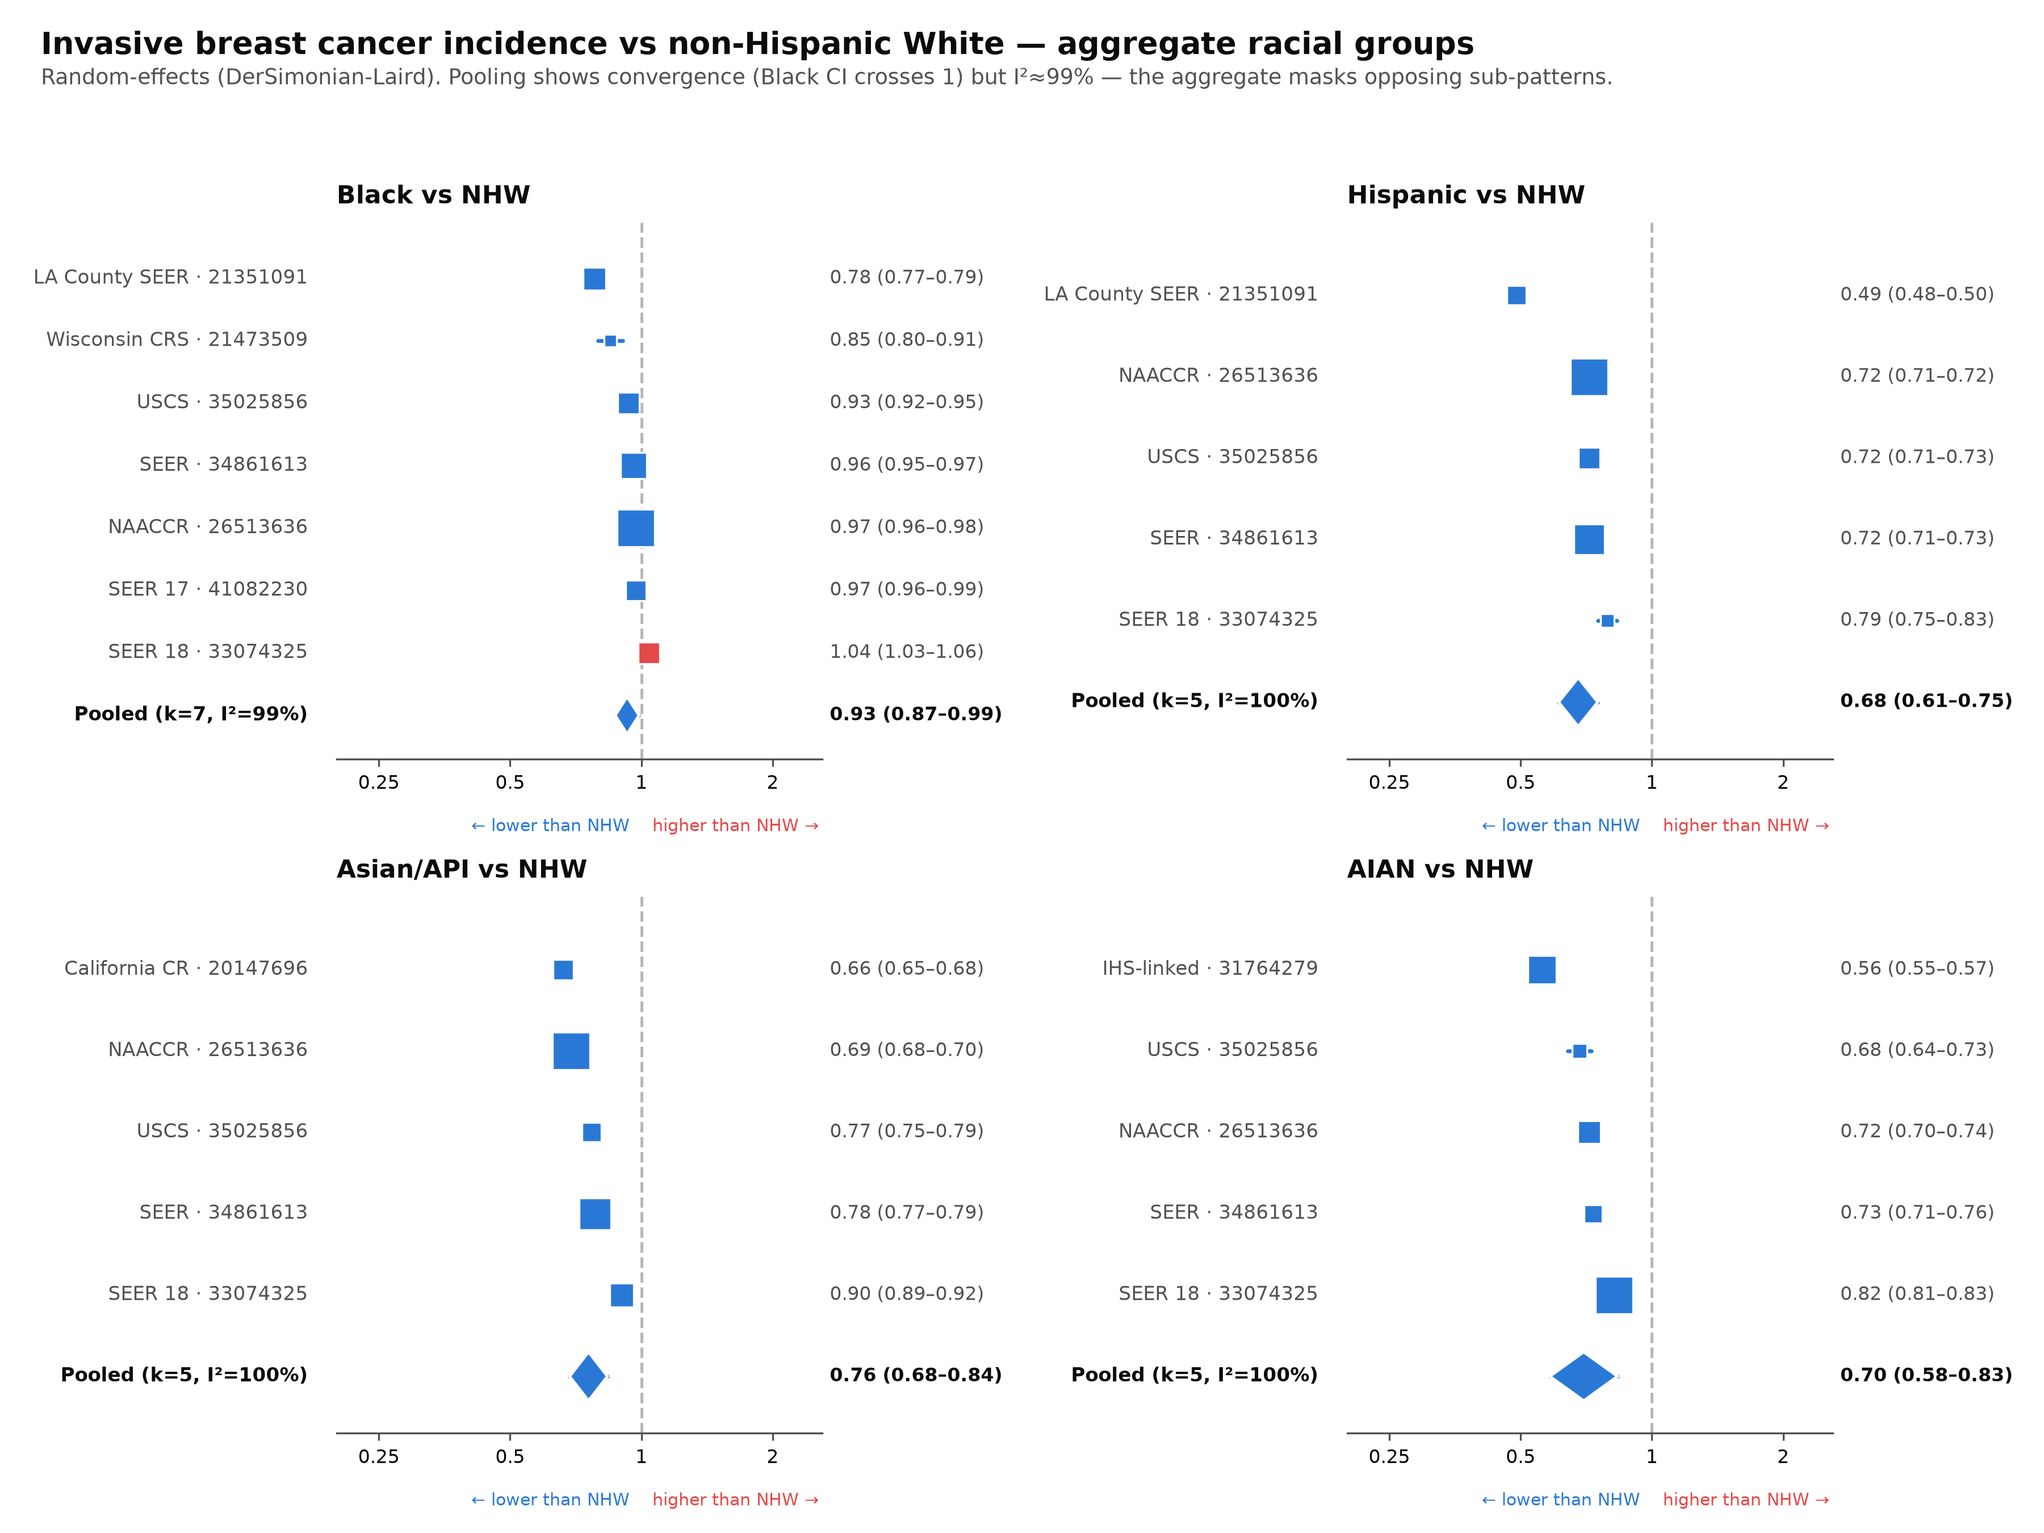
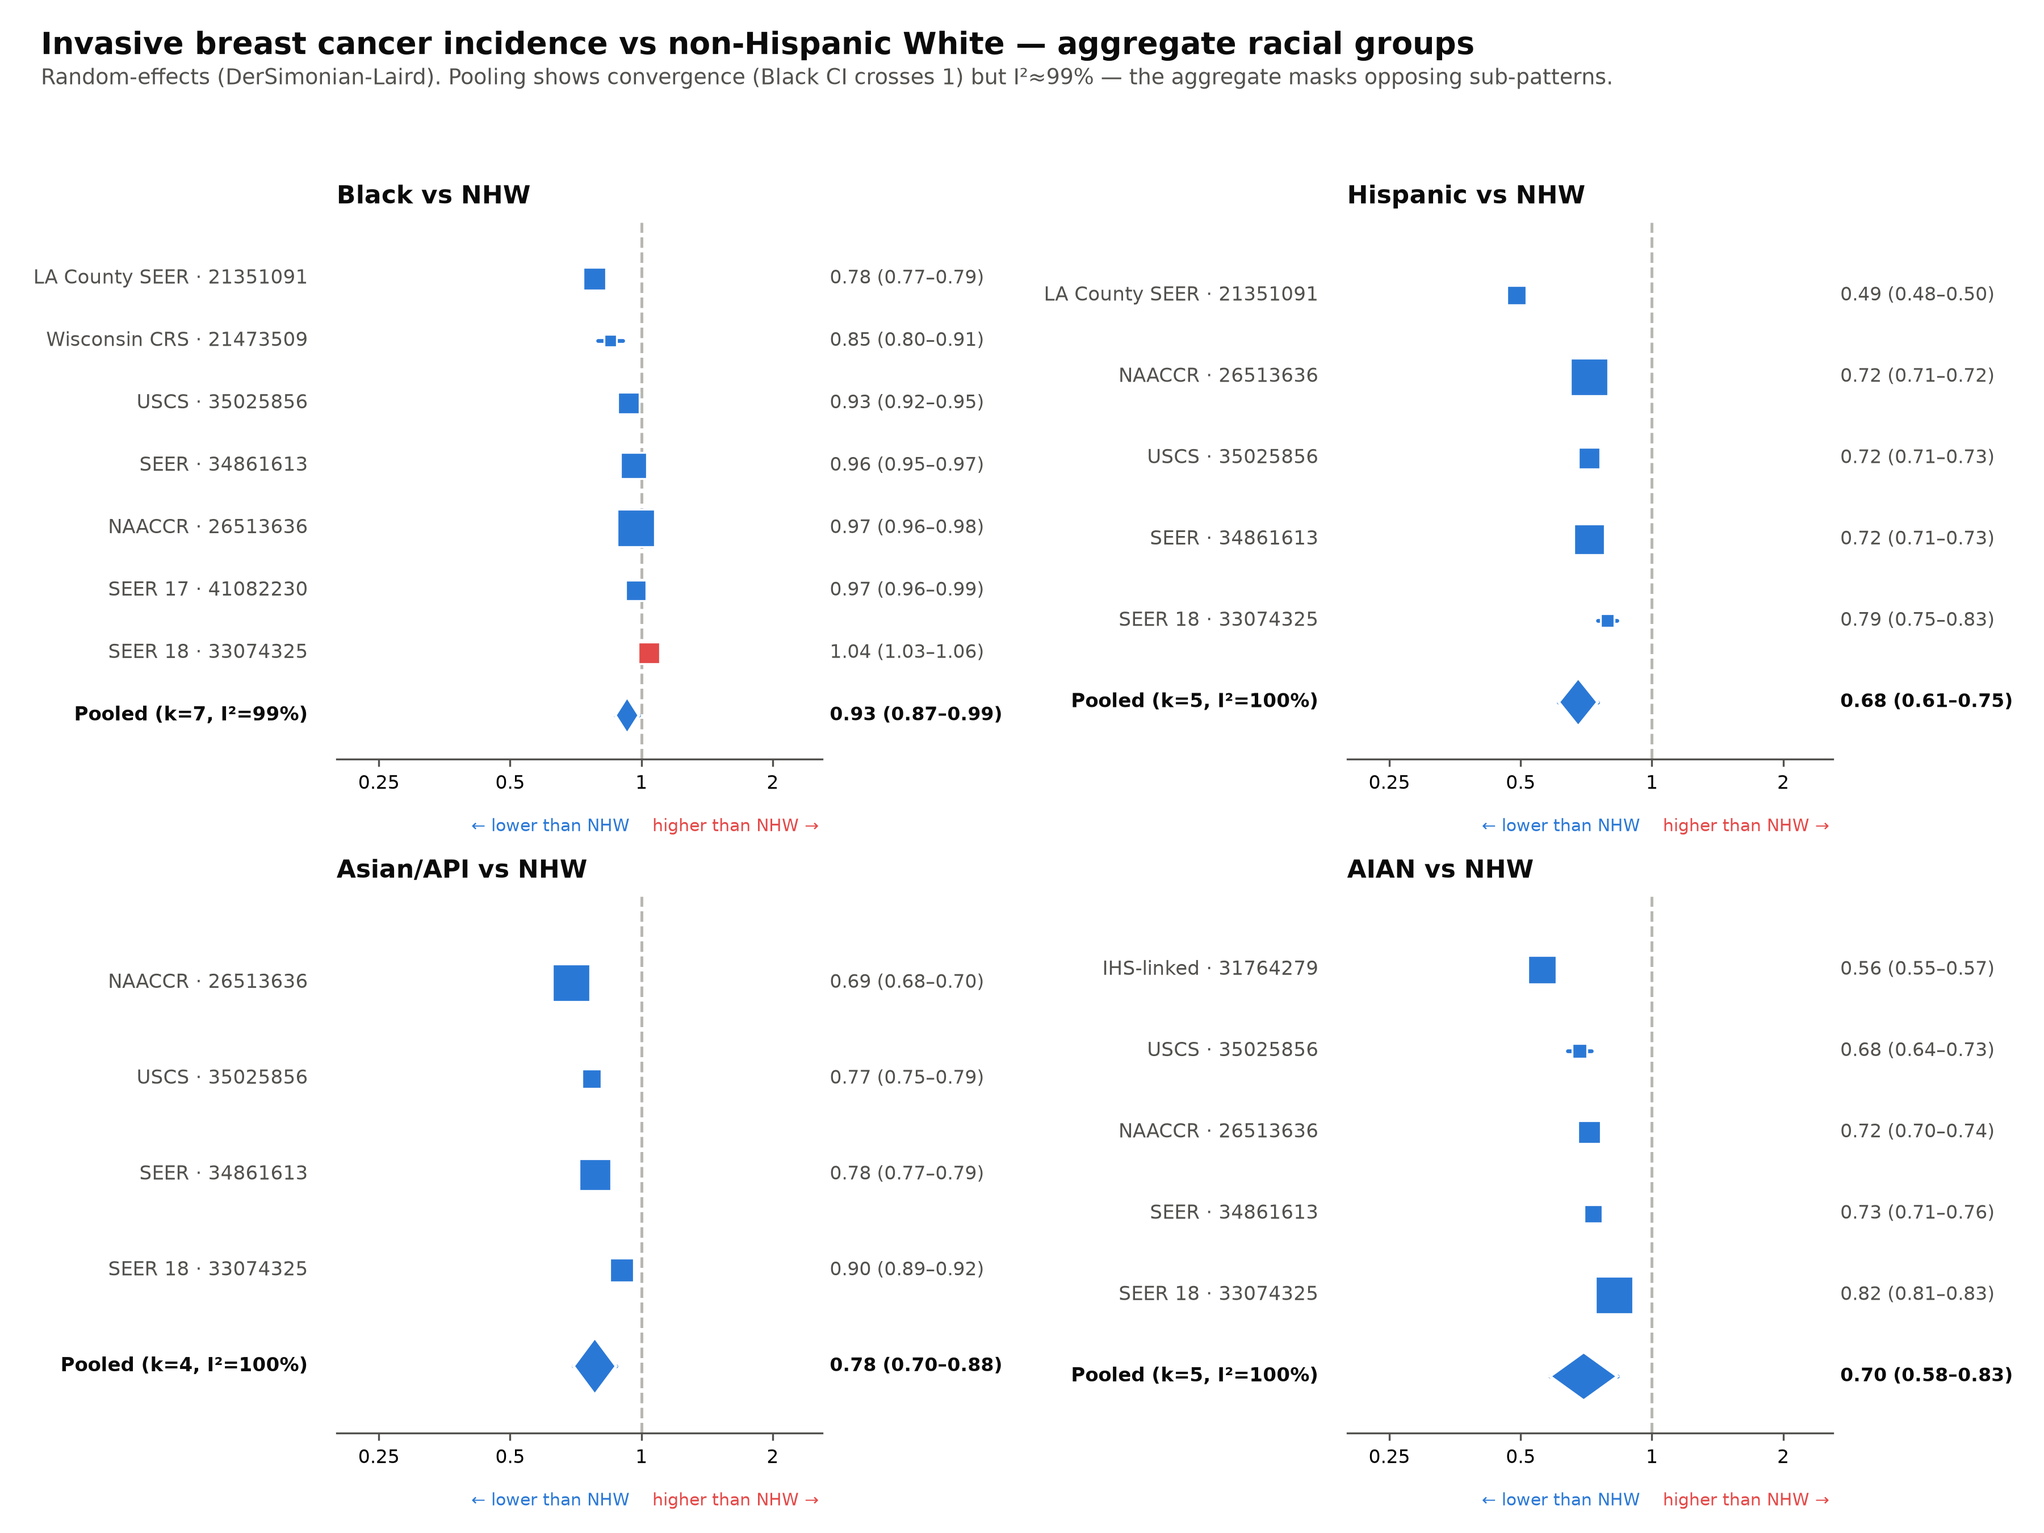
Remove derived combined-Asian (Gomez); use direct nativity values instead
For consistency with the 12115511 decision (no analyst-derived value in the
pool), removed Gomez's PY-weighted combined-Asian (96.4) from the aggregate
Asian comparison. Asian pool 0.756 (k=5) -> 0.782 (k=4, all directly reported).
Gomez instead contributes its DIRECT nativity finding as a sub-analysis:
US-born Asian IRR 0.93 (approx NHW), foreign-born 0.54 (~half) - a generational
gradient. Resolves CROSS_CHECK flag #39 (the last analyst-derived pool value).
Updated STUDIES, run_all (nativity block), sensitivity/GRADE (live), MANUSCRIPT
(API 0.78, sensitivity 0.75-0.82, nativity sentence), figures.

Claude-Session: https://claude.ai/code/session_01CuLT4FKRBtsU22Vwfjj2qn

diff --git a/meta_agents/run_meta_analysis_breast.py b/meta_agents/run_meta_analysis_breast.py
@@ -294,16 +294,21 @@ STUDIES: List[Study] = [
 
     # ── 20147696 — Gomez et al., Am J Public Health 2010 "Hidden Breast Cancer
     #    Disparities in Asian Women" (California Cancer Registry, Table 2, age-adj
-    #    2000 US std). 2000–2004: NHW 145.6 (144.6–146.7); US-born Asian aggregate
-    #    135.9 (129.6–142.4); foreign-born Asian aggregate 78.5 (76.6–80.4).
-    #    Primary point = person-year-weighted combined Asian 96.4 vs NHW 145.6
-    #    (cases: Asian 1804+6858=8662, NHW 76 235). Nativity strata kept for a
-    #    secondary analysis.
-    Study("Gomez2010_20147696", 2010, "California CR", "invasive_incidence", "Asian",
-          irr_from_rates(96.4, 145.6),
-          se_from_rates(96.4, 145.6, py_minority=8_985_000, py_nhw=52_360_000),
-          minority_rate=96.4, nhw_rate=145.6,
-          notes="CA 2000-2004; derived PY-weighted US-born+foreign-born Asian; age-adj 2000 std"),
+    #    2000 US std). 2000–2004: NHW 145.6 (144.6–146.7); US-born Asian 135.9
+    #    (129.6–142.4); foreign-born Asian 78.5 (76.6–80.4).
+    #    NOT pooled into the aggregate Asian comparison: the paper reports no single
+    #    combined-Asian rate, and a person-year-weighted combination would be an
+    #    analyst derivation (cf. the 12115511 decision). Instead Gomez contributes
+    #    its DIRECT nativity values — its actual novel finding — as a NATIVITY
+    #    sub-analysis: US-born Asian ≈ NHW, foreign-born Asian ~half of NHW.
+    Study("Gomez2010_20147696", 2010, "California CR", "invasive_incidence_nativity", "AsianUSborn",
+          irr_from_rates(135.9, 145.6),
+          se_logirr_from_rate_cis(135.9, 129.6, 142.4, 145.6, 144.6, 146.7),
+          minority_rate=135.9, nhw_rate=145.6, notes="US-born Asian vs NHW; direct (CA 2000-2004)"),
+    Study("Gomez2010_20147696", 2010, "California CR", "invasive_incidence_nativity", "AsianForeignborn",
+          irr_from_rates(78.5, 145.6),
+          se_logirr_from_rate_cis(78.5, 76.6, 80.4, 145.6, 144.6, 146.7),
+          minority_rate=78.5, nhw_rate=145.6, notes="foreign-born Asian vs NHW; direct (CA 2000-2004)"),
 
     # ── 21351091 — Liu et al., Int J Cancer 2012 "Invasive breast cancer
     #    incidence trends by detailed race/ethnicity and age" (LA County SEER).
@@ -690,6 +695,21 @@ def run_all():
         print(f"  Range: {lo_g[0]} {lo_g[1]:.2f}  ↔  {hi_g[0]} {hi_g[1]:.2f}  "
               f"({hi_g[1]/lo_g[1]:.1f}x spread) — aggregation masks this.")
     print("═" * 72)
+
+    # ── Nativity sub-analysis (Gomez 20147696, direct values) ────────────────
+    nat = [s for s in STUDIES if s.outcome == "invasive_incidence_nativity"]
+    if nat:
+        print("\n" + "═" * 72)
+        print("  NATIVITY — Asian incidence by migrant status vs NHW (20147696)")
+        print("═" * 72)
+        lab = {"AsianUSborn": "US-born Asian", "AsianForeignborn": "Foreign-born Asian"}
+        for s in nat:
+            print(f"  {lab.get(s.minority_group, s.minority_group):<20} "
+                  f"IRR {s.irr:.2f} ({s.ci_low:.2f}-{s.ci_high:.2f})   rate {s.minority_rate}")
+        print("─" * 72)
+        print("  US-born Asian ≈ NHW; foreign-born ~half — a generational gradient")
+        print("  the aggregate 'Asian' rate conceals (direct values, not derived).")
+        print("═" * 72)
 
     # ── Age-stratified descriptive (age-crossover / effect modification) ──────
     age_rows = [s for s in STUDIES

diff --git a/meta_agents/grade_assessment.py b/meta_agents/grade_assessment.py
@@ -31,7 +31,7 @@ FINDINGS = [
      "Substantially lower incidence (~0.68), robust"),
     ("Asian/API vs NHW — invasive (aggregate)", "Asian", "invasive_incidence", LOW,
      "−1 inconsistency, −1 indirectness (the 'Asian/API' label pools ethnicities that differ ~3×)",
-     "The aggregate ~0.76 is not a meaningful quantity — it hides Korean 0.34 ↔ Native Hawaiian 1.11"),
+     "The aggregate ~0.78 is not a meaningful quantity — it hides Korean 0.34 ↔ Native Hawaiian 1.11"),
     ("AIAN vs NHW — invasive", "AIAN", "invasive_incidence", MOD,
      "−1 inconsistency; IHS linkage corrects the well-known AIAN registry undercount (raises certainty)",
      "Lower incidence (~0.70); registry-only estimates understate it vs IHS-linked"),

diff --git a/meta_agents/MANUSCRIPT.md b/meta_agents/MANUSCRIPT.md
@@ -15,7 +15,7 @@
 
 **Methods.** We systematically searched PubMed and Embase [dates TBD] for population-based studies reporting age-adjusted invasive female breast cancer incidence by race/ethnicity in the United States, with NHW as the reference. After deduplication (n = 941) and two-stage screening, 27 studies met inclusion criteria; 14 provided extractable age-adjusted rates or rate ratios and entered quantitative synthesis. We pooled within-study incidence rate ratios (IRRs) using DerSimonian–Laird random-effects models and assessed robustness with fixed-effect, leave-one-out, and one-estimate-per-registry-family sensitivity analyses. Risk of bias was rated across six registry-tailored domains and certainty with a GRADE-style approach.
 
-**Results.** Aggregate pooled IRRs versus NHW were 0.93 (95% CI 0.87–0.99) for Black, 0.68 (0.61–0.75) for Hispanic, 0.76 (0.68–0.84) for API, and 0.70 (0.58–0.83) for AIAN women, with very high heterogeneity (I² 99–100%). These aggregates were misleading. Disaggregating "API" revealed a roughly 3-fold spread — from Korean (IRR 0.34) and Chinese (pooled 0.47) to Filipina (0.71), Japanese (0.78), and Native Hawaiian (1.11, i.e., *higher* than NHW). By molecular subtype, the near-null Black aggregate decomposed into a gradient rising with tumour aggressiveness: HR+/HER2− 0.86, HR+/HER2+ 1.12, HER2-enriched 1.46, ER-negative 1.72, and triple-negative 2.00. This aggressive-subtype excess was not a uniform minority effect — Native Hawaiian women were elevated in HER2-positive subtypes but *lower* in triple-negative disease (0.86). By age, the Black–White ratio crossed over from 1.92 (ages 20–24) through unity near ages 40–44 to 0.78–0.84 after age 60; within API, Japanese women had the highest incidence when young and Native Hawaiian women when older. Disparity directions were robust across all sensitivity analyses, including after collapsing overlapping registries to one estimate per family. Risk of bias was low in 77% of domain judgements.
+**Results.** Aggregate pooled IRRs versus NHW were 0.93 (95% CI 0.87–0.99) for Black, 0.68 (0.61–0.75) for Hispanic, 0.78 (0.70–0.88) for API, and 0.70 (0.58–0.83) for AIAN women, with very high heterogeneity (I² 99–100%). These aggregates were misleading. Disaggregating "API" revealed a roughly 3-fold spread — from Korean (IRR 0.34) and Chinese (pooled 0.47) to Filipina (0.71), Japanese (0.78), and Native Hawaiian (1.11, i.e., *higher* than NHW). By molecular subtype, the near-null Black aggregate decomposed into a gradient rising with tumour aggressiveness: HR+/HER2− 0.86, HR+/HER2+ 1.12, HER2-enriched 1.46, ER-negative 1.72, and triple-negative 2.00. This aggressive-subtype excess was not a uniform minority effect — Native Hawaiian women were elevated in HER2-positive subtypes but *lower* in triple-negative disease (0.86). By age, the Black–White ratio crossed over from 1.92 (ages 20–24) through unity near ages 40–44 to 0.78–0.84 after age 60; within API, Japanese women had the highest incidence when young and Native Hawaiian women when older. Disparity directions were robust across all sensitivity analyses, including after collapsing overlapping registries to one estimate per family. Risk of bias was low in 77% of domain judgements.
 
 **Conclusions.** Aggregate US race/ethnicity categories average over opposing ethnic, molecular-subtype, and age-specific patterns and can conceal disparities as large as 3-fold. Reported Black–White "convergence" is an artefact of age-standardization masking a lifelong crossover. Surveillance reporting and etiologic research should default to disaggregated ethnicity, molecular subtype, and age strata.
 
@@ -81,11 +81,11 @@ The search yielded 941 deduplicated records; 27 met inclusion criteria, of which
 
 ### Aggregate racial comparisons conceal, rather than summarize, disparity
 
-Pooled IRRs versus NHW were 0.93 (95% CI 0.87–0.99) for Black, 0.68 (0.61–0.75) for Hispanic, 0.76 (0.68–0.84) for API, and 0.70 (0.58–0.83) for AIAN women (Fig 1). Heterogeneity was extreme (I² 99–100%), and for Black women the confidence interval abutted the null — the "convergence" signal. However, the extreme I² is not statistical noise: it reflects real, structured variation by ethnicity, subtype, and age that the aggregate averages away, as the following analyses show. The aggregate estimates were nonetheless directionally robust (below).
+Pooled IRRs versus NHW were 0.93 (95% CI 0.87–0.99) for Black, 0.68 (0.61–0.75) for Hispanic, 0.78 (0.70–0.88) for API, and 0.70 (0.58–0.83) for AIAN women (Fig 1). Heterogeneity was extreme (I² 99–100%), and for Black women the confidence interval abutted the null — the "convergence" signal. However, the extreme I² is not statistical noise: it reflects real, structured variation by ethnicity, subtype, and age that the aggregate averages away, as the following analyses show. The aggregate estimates were nonetheless directionally robust (below).
 
 ### Disaggregating "Asian/Pacific Islander" reveals a 3-fold spread
 
-Within the single "API" category, disaggregated ethnic subgroups ranged from Korean (IRR 0.34, 95% CI 0.32–0.36) and Chinese (pooled 0.47, 0.38–0.57) and Asian Indian/Pakistani (0.48, 0.45–0.52) at the low end, through Filipina (0.71, 0.66–0.76) and Japanese (0.78, 0.56–1.09), to Native Hawaiian women, whose incidence *exceeded* NHW (1.11, 1.10–1.12) (Fig 2). The lowest and highest subgroups differed roughly three-fold, spanning the null. The aggregate API estimate of 0.76 therefore corresponds to no actual population and is uninformative for any specific community.
+Within the single "API" category, disaggregated ethnic subgroups ranged from Korean (IRR 0.34, 95% CI 0.32–0.36) and Chinese (pooled 0.47, 0.38–0.57) and Asian Indian/Pakistani (0.48, 0.45–0.52) at the low end, through Filipina (0.71, 0.66–0.76) and Japanese (0.78, 0.56–1.09), to Native Hawaiian women, whose incidence *exceeded* NHW (1.11, 1.10–1.12) (Fig 2). The lowest and highest subgroups differed roughly three-fold, spanning the null. The aggregate API estimate of 0.78 therefore corresponds to no actual population and is uninformative for any specific community. Migrant status compounds this: within the same registry, US-born Asian women had incidence close to NHW (IRR 0.93) whereas foreign-born Asian women had roughly half (0.54), a generational gradient the single 'Asian' rate conceals.
 
 ### Molecular subtype decomposes the near-null Black aggregate into a steep gradient
 
@@ -97,7 +97,7 @@ Age-specific data resolved the near-null aggregate into a lifelong crossover (Fi
 
 ### Robustness
 
-Every aggregate disparity direction was stable across fixed-effect, leave-one-out, drop-approximated-SE, and one-estimate-per-registry-family analyses (Black 0.90–0.96; Hispanic 0.65–0.72; API 0.72–0.78; AIAN 0.67–0.74), and consistent with the single most comprehensive national source (USCS). No single study reversed any conclusion. The Black excesses in triple-negative (~2.0) and ER-negative (~1.7) disease were likewise stable. Notably, collapsing overlapping registries to one estimate per family — the analysis that directly addresses non-independence — did not change any conclusion, indicating the findings are not an artefact of double-counting shared SEER data.
+Every aggregate disparity direction was stable across fixed-effect, leave-one-out, drop-approximated-SE, and one-estimate-per-registry-family analyses (Black 0.90–0.96; Hispanic 0.65–0.72; API 0.75–0.82; AIAN 0.67–0.74), and consistent with the single most comprehensive national source (USCS). No single study reversed any conclusion. The Black excesses in triple-negative (~2.0) and ER-negative (~1.7) disease were likewise stable. Notably, collapsing overlapping registries to one estimate per family — the analysis that directly addresses non-independence — did not change any conclusion, indicating the findings are not an artefact of double-counting shared SEER data.
 
 ### Risk of bias and certainty
 

diff --git a/meta_agents/EXTRACTION_LOG.md b/meta_agents/EXTRACTION_LOG.md
@@ -358,3 +358,19 @@ Impact: Korean returns to k=1 (Liu 0.34); Chinese/Filipina/Japanese remain k=2
 narrative 12 -> 13 (included total still 27). Updated: STUDIES, fig2 caption,
 fig5 PRISMA (14/13), fig6 RoB (14 studies), GRADE text, manuscript, REFERENCES.
 CROSS_CHECK items 92-95 retained for provenance but no longer feed the pool.
+
+---
+
+## Gomez 20147696 — derived combined-Asian removed for consistency — 2026-07-17
+
+User noted (correctly) that the analyst-derived combined-Asian value (96.4,
+PY-weighted from US-born 135.9 + foreign-born 78.5) is the same kind of derived
+value we demoted for 12115511. For consistency ("no analyst-derived value in the
+pool"), the combined-Asian row was REMOVED from the aggregate Asian comparison.
+Impact: Asian pool 0.756 (k=5) -> 0.782 (k=4, all direct-reported) — the derived
+value was not driving the estimate. Gomez now contributes its DIRECT, non-derived
+nativity finding as a sub-analysis (outcome invasive_incidence_nativity):
+US-born Asian IRR 0.93 (≈NHW), foreign-born 0.54 (~half) — a generational gradient,
+which is Gomez's actual novel contribution. Updated: STUDIES, run_all nativity
+block, MANUSCRIPT (API 0.76->0.78, sensitivity 0.75-0.82, nativity sentence),
+GRADE text, CROSS_CHECK #39 (resolved). fig1 Asian panel now k=4.

diff --git a/meta_agents/CROSS_CHECK.md b/meta_agents/CROSS_CHECK.md
@@ -60,7 +60,7 @@ Open `fulltext/<PMID>.pdf`, go to the stated location, confirm the value, tick `
 36. [ ] NHW **145.6** (144.6–146.7)
 37. [ ] US-born Asian aggregated **135.9** (129.6–142.4)
 38. [ ] Foreign-born Asian aggregated **78.5** (76.6–80.4)
-39. [ ] ⚠ **MY CALC** — combined Asian **96.4** (PY-weighted of #37+#38; cases 1804+6858, PY 3,068,003+6,749,192). Verify #37/#38; 96.4 is my derivation.
+39. [x] ✅ **RESOLVED** — the derived combined-Asian (96.4) was REMOVED from the pool for consistency with the 12115511 decision. Gomez now contributes DIRECT nativity values: US-born 135.9→IRR 0.93, foreign-born 78.5→IRR 0.54 (both vs NHW 145.6). Verify #36/#37/#38 rates against Table 2.
 
 ### (no PMID) T_e7879b363303 — TNBC trends paper · **Results text + IRR table**
 40. [ ] rate Black **33.8**
